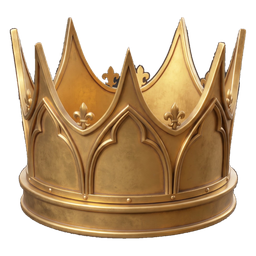
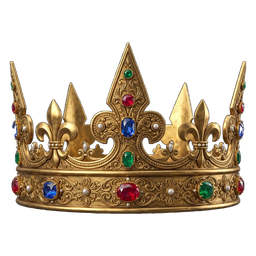
Practice: coroana de aur cu pietre si perle pe Istorie
Tabla de sah pictata s-a scos si din golurile dintre varfuri si flori;
perlele, mai luminoase decat tabla, raman.

diff --git a/docs/progres.md b/docs/progres.md
@@ -1,6 +1,6 @@
 # MINDKEEP — Jurnal de progres
 
-*Ultima actualizare: 23 octombrie 2026*
+*Ultima actualizare: 24 octombrie 2026*
 *Atașează acest fișier la începutul fiecărei sesiuni noi, împreună cu `CLAUDE.md` și `docs/pitch-document.md`.*
 
 ---
@@ -61,12 +61,16 @@ figurina și creierul stau una lângă alta.
     fundalul. Fundalul ei e un gri neted, deci s-a scos după culoare (gri neutru
     legat de margini), iar umbrele închise din coroană au rămas. **În aceeași zi
     coroana a fost înlocuită de trei ori** (albastru cu aur, apoi toată de aur
-    cu gravuri, apoi de aur netedă — cea rămasă).
-    Strălucirea aurului încălzește fundalul din jur, deci cheia de culoare
-    singură lăsa pete. Soluția a fost să le combin: se păstrează ce nu e gri
-    neutru, dar numai înăuntrul siluetei date de rembg, cu găurile umplute.
-    Prețul variantei aurii: pe butonul bej se desprinde mai slab decât celelalte
-    iconițe;
+    cu gravuri, apoi de aur netedă). La cele aurii, strălucirea încălzește
+    fundalul din jur, deci cheia de culoare singură lăsa pete; soluția a fost
+    s-o combin cu rembg: ce nu e gri neutru, dar numai înăuntrul siluetei, cu
+    găurile umplute. Prețul aurului simplu: pe butonul bej se desprinde slab.
+    **Pe 24 octombrie, a patra înlocuire**: aur cu pietre și perle, cea rămasă
+    (pietrele colorate o desprind de bej; fiind lată, iese mai joasă pe buton).
+    Ea stătea pe o tablă de șah pictată, care se vedea și prin golurile dintre
+    vârfuri și flori, deci s-a scos tot griul neutru din plaja tablei, numai
+    înăuntrul siluetei rembg, FĂRĂ să umplu găurile; perlele, mai luminoase
+    decât tabla, au rămas;
   - **lupa**: prin lentilă se vedea tabla pictată. A fost înlocuită cu sticlă
     netedă, pe jumătate transparentă, iar semnul întrebării (auriu, deci ușor de
     separat de sticla rece) a rămas.
